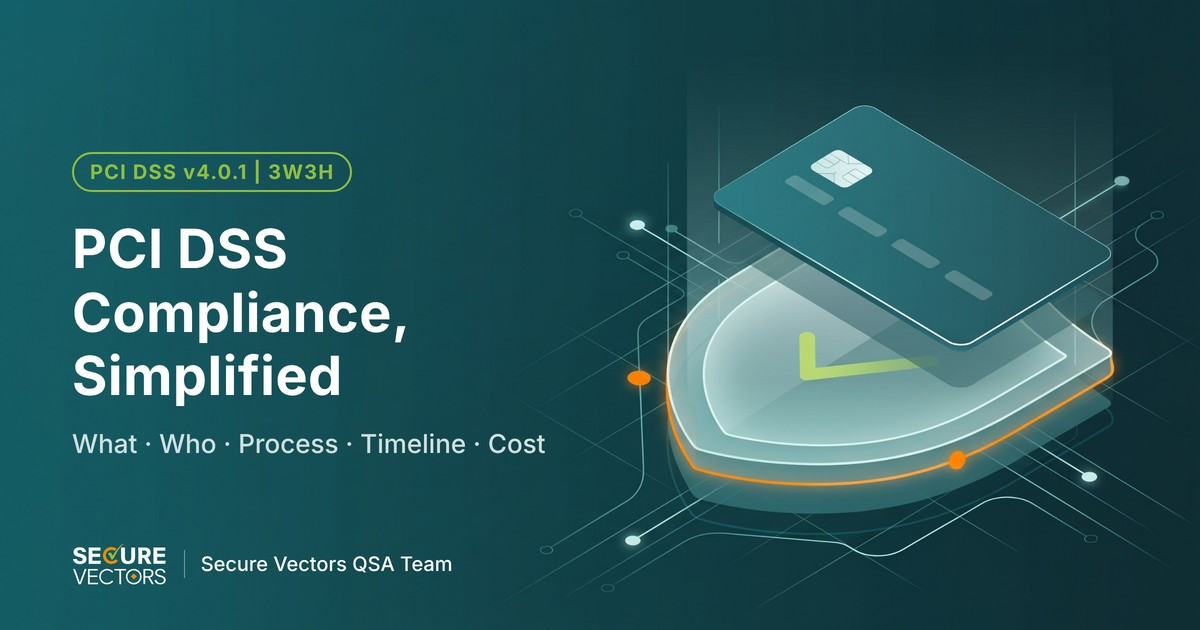
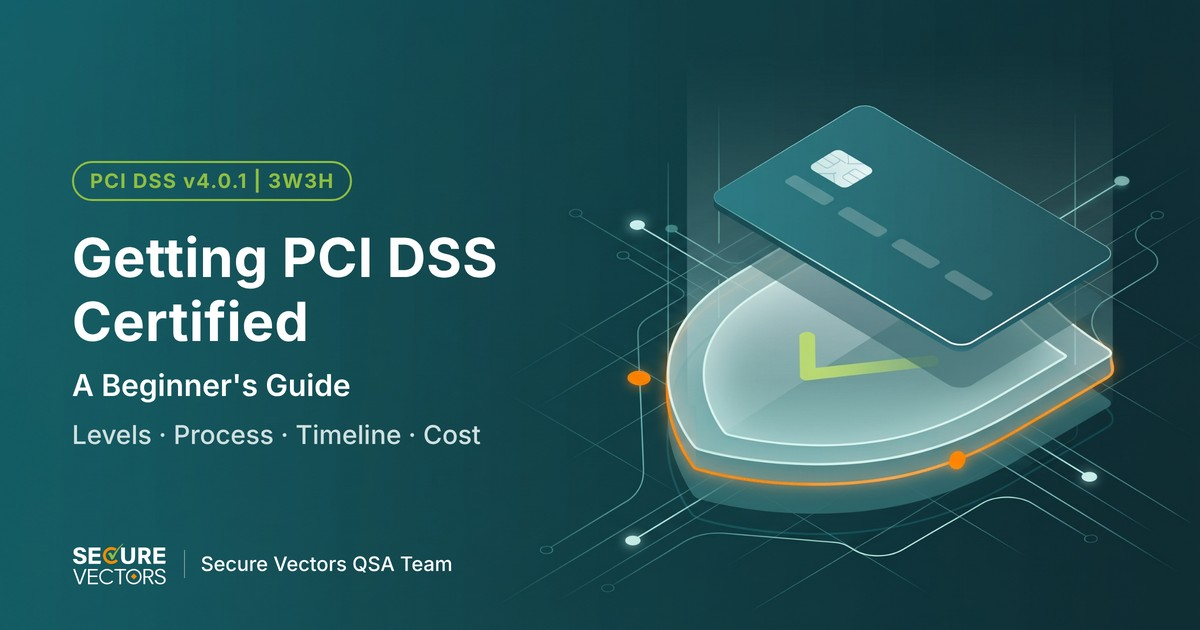
V2_20261117

Changed region(s): [[0.0617, 0.3619, 0.4625, 0.7238], [0.0617, 0.2413, 0.3083, 0.3317]]

diff --git a/pci-dss-compliance-for-dummies-en.html b/pci-dss-compliance-for-dummies-en.html
@@ -5,8 +5,8 @@
 <meta name="viewport" content="width=device-width, initial-scale=1">
 <!-- Preview only: remove the noindex line below before going live -->
 <meta name="robots" content="noindex, nofollow">
-<title>PCI DSS Compliance Guide for Beginners: Levels, Process, Timeline &amp; Cost (v4.0.1) | Secure Vectors</title>
-<meta name="description" content="Asked by your acquirer or a client to become PCI DSS compliant? This v4.0.1 guide explains levels and SAQ types, AOC vs. ROC, the QSA assessment process, a typical 3–5 month timeline, QSA fees of about US$15,000–25,000, and what you need to do every quarter and year after.">
+<title>Getting PCI DSS Certified: A Beginner's Guide | Secure Vectors</title>
+<meta name="description" content="Asked by your acquirer or a client to get PCI DSS certified? Based on PCI DSS v4.0.1: levels and SAQ types, AOC vs. ROC, the QSA assessment process, a typical 3–5 month timeline, QSA fees of about US$15,000–25,000, and what to do every quarter and year after.">
 <link rel="canonical" href="https://www.securevectors.com/pci-dss-compliance-for-dummies">
 <link rel="alternate" hreflang="zh-Hant" href="https://www.securevectors.com/zh-hant/pci-dss-compliance-for-dummies">
 <link rel="alternate" hreflang="zh-Hans" href="https://www.securevectors.com/zh-hans/pci-dss-compliance-for-dummies">
@@ -14,7 +14,7 @@
 <link rel="alternate" hreflang="en" href="https://www.securevectors.com/pci-dss-compliance-for-dummies">
 <link rel="alternate" hreflang="x-default" href="https://www.securevectors.com/pci-dss-compliance-for-dummies">
 <meta property="og:type" content="article">
-<meta property="og:title" content="PCI DSS Compliance, Simplified: What It Is, Who Needs It, Process, Timeline and Cost">
+<meta property="og:title" content="Getting PCI DSS Certified: A Beginner's Guide — Levels, Process, Timeline and Cost">
 <meta property="og:description" content="A plain-language guide to PCI DSS v4.0.1, built around six questions (3W3H), plus what to do after you receive your AOC.">
 <meta property="og:url" content="https://www.securevectors.com/pci-dss-compliance-for-dummies">
 <!-- Replace with the cover image URL after uploading to Webflow -->
@@ -26,8 +26,8 @@
 <link href="https://fonts.googleapis.com/css2?family=Inter:wght@400;500;700&family=Space+Grotesk:wght@500;700&display=swap" rel="stylesheet">
 <script type="application/ld+json">
 {"@context":"https://schema.org","@graph":[
-{"@type":"Article","headline":"PCI DSS Compliance, Simplified: What It Is, Who Needs It, Process, Timeline and Cost","description":"A plain-language guide to PCI DSS v4.0.1: what it is, who needs it, who assesses it, the certification process, timeline and cost, and what to do every quarter and year after you receive your AOC.","dateModified":"2026-11-17","image":"https://www.securevectors.com/REPLACE-pci-dss-dummies-cover-en-1200x630.jpg","inLanguage":"en","mainEntityOfPage":"https://www.securevectors.com/pci-dss-compliance-for-dummies","author":{"@type":"Organization","name":"Secure Vectors QSA Team","url":"https://www.securevectors.com/about-us"},"publisher":{"@type":"Organization","name":"Secure Vectors","url":"https://www.securevectors.com/"},"about":["PCI DSS","PCI DSS v4.0.1","Qualified Security Assessor","Attestation of Compliance","Self-Assessment Questionnaire"]},
-{"@type":"BreadcrumbList","itemListElement":[{"@type":"ListItem","position":1,"name":"Home","item":"https://www.securevectors.com/"},{"@type":"ListItem","position":2,"name":"PCI DSS","item":"https://www.securevectors.com/pci-dss"},{"@type":"ListItem","position":3,"name":"PCI DSS Compliance Guide","item":"https://www.securevectors.com/pci-dss-compliance-for-dummies"}]},
+{"@type":"Article","headline":"Getting PCI DSS Certified: A Beginner's Guide — Levels, Process, Timeline and Cost","description":"A plain-language guide to PCI DSS v4.0.1: what it is, who needs it, who assesses it, the certification process, timeline and cost, and what to do every quarter and year after you receive your AOC.","dateModified":"2026-11-17","image":"https://www.securevectors.com/REPLACE-pci-dss-dummies-cover-en-1200x630.jpg","inLanguage":"en","mainEntityOfPage":"https://www.securevectors.com/pci-dss-compliance-for-dummies","author":{"@type":"Organization","name":"Secure Vectors QSA Team","url":"https://www.securevectors.com/about-us"},"publisher":{"@type":"Organization","name":"Secure Vectors","url":"https://www.securevectors.com/"},"about":["PCI DSS","PCI DSS v4.0.1","Qualified Security Assessor","Attestation of Compliance","Self-Assessment Questionnaire"]},
+{"@type":"BreadcrumbList","itemListElement":[{"@type":"ListItem","position":1,"name":"Home","item":"https://www.securevectors.com/"},{"@type":"ListItem","position":2,"name":"PCI DSS","item":"https://www.securevectors.com/pci-dss"},{"@type":"ListItem","position":3,"name":"Getting PCI DSS Certified","item":"https://www.securevectors.com/pci-dss-compliance-for-dummies"}]},
 {"@type":"FAQPage","mainEntity":[
 {"@type":"Question","name":"If a payment provider hosts our payment page, do we still need PCI DSS?","acceptedAnswer":{"@type":"Answer","text":"Yes. Outsourcing can greatly reduce your scope, but merchants usually still need to complete the applicable SAQ and submit an AOC every year. Which SAQ applies depends on how the payment page is embedded."}},
 {"@type":"Question","name":"How long is a PCI DSS AOC valid?","acceptedAnswer":{"@type":"Answer","text":"PCI DSS is validated on a 12-month cycle. You need to reassess and submit a new AOC every year. Submission timing is set by your acquirer, the card brands, or your clients."}},
@@ -364,8 +364,8 @@ footer .bottom{border-top:1px solid rgba(255,255,255,.12);margin-top:24px;paddin
   <div class="wrap">
     <p class="crumb"><a href="https://www.securevectors.com/">Home</a> / <a href="https://www.securevectors.com/pci-dss">PCI DSS</a> / Beginner's guide</p>
     <p class="eyebrow">Knowledge · PCI DSS v4.0.1</p>
-    <h1>PCI DSS Compliance, Simplified</h1>
-    <p class="sub">A beginner's guide for anyone asked by an acquirer or manager to get PCI DSS certified — six questions answered (3W3H).</p>
+    <h1>Getting PCI DSS Certified: A Beginner's Guide</h1>
+    <p class="sub">Levels, Process, Timeline and Cost</p>
     <p class="meta">Updated November 2026 · By the Secure Vectors QSA Team</p>
   </div>
 </section>

diff --git a/index.html b/index.html
@@ -17,9 +17,11 @@ h1{font-size:clamp(26px,4vw,38px);margin:0 0 10px}
 p.sub{color:var(--muted);margin:0 0 32px}
 .grid{display:grid;grid-template-columns:1fr 1fr;gap:16px}
 @media(max-width:640px){.grid{grid-template-columns:1fr}}
-a.card{display:block;text-decoration:none;color:inherit;background:#fff;border:1.5px solid var(--line);border-left:5px solid var(--teal);border-radius:12px;padding:20px 22px;transition:border-color .15s,box-shadow .15s}
+a.card{display:block;overflow:hidden;padding:0 !important;text-decoration:none;color:inherit;background:#fff;border:1.5px solid var(--line);border-top:4px solid var(--teal);border-radius:12px;padding:20px 22px;transition:border-color .15s,box-shadow .15s}
 a.card:hover{border-color:var(--orange);box-shadow:0 6px 18px rgba(13,52,55,.08)}
 .lang{font-family:"Space Grotesk",sans-serif;font-size:13px;font-weight:700;color:var(--orange)}
+.card img{display:block;width:100%;aspect-ratio:1200/630;object-fit:cover;border-bottom:1px solid var(--line)}
+.card .bd{padding:16px 20px 18px}
 .card h2{font-size:20px;margin:4px 0 6px}
 .card p{margin:0;font-size:14.5px;color:var(--muted)}
 .note{margin-top:32px;font-size:13.5px;color:var(--muted);border-top:1px solid var(--line);padding-top:16px}
@@ -31,10 +33,10 @@ a.card:hover{border-color:var(--orange);box-shadow:0 6px 18px rgba(13,52,55,.08)
   <h1>PCI DSS 過證懶人包｜預覽版</h1>
   <p class="sub">請選擇語系。各頁面皆為上線前預覽版本（noindex）。</p>
   <div class="grid">
-    <a class="card" href="pci-dss-compliance-for-dummies.html"><span class="lang">繁體中文 · zh-Hant</span><h2>【PCI DSS 過證懶人包】</h2><p>台灣、香港讀者</p></a>
-    <a class="card" href="pci-dss-compliance-for-dummies-zh-hans.html"><span class="lang">简体中文 · zh-Hans</span><h2>【PCI DSS 认证一文读懂】</h2><p>中国内地读者</p></a>
-    <a class="card" href="pci-dss-compliance-for-dummies-en.html"><span class="lang">English · en</span><h2>PCI DSS Compliance, Simplified</h2><p>Singapore, US and EU readers</p></a>
-    <a class="card" href="pci-dss-compliance-for-dummies-ja.html"><span class="lang">日本語 · ja</span><h2>PCI DSS準拠 はじめてガイド</h2><p>日本の読者向け</p></a>
+    <a class="card" href="pci-dss-compliance-for-dummies.html"><img src="pci-dss-dummies-cover-zh-hant-1200x630.jpg" alt=""><div class="bd"><span class="lang">繁體中文 · zh-Hant</span><h2>【PCI DSS 過證懶人包】</h2><p>台灣、香港讀者</p></div></a>
+    <a class="card" href="pci-dss-compliance-for-dummies-zh-hans.html"><img src="pci-dss-dummies-cover-zh-hans-1200x630.jpg" alt=""><div class="bd"><span class="lang">简体中文 · zh-Hans</span><h2>【PCI DSS 认证一文读懂】</h2><p>中国内地读者</p></div></a>
+    <a class="card" href="pci-dss-compliance-for-dummies-en.html"><img src="pci-dss-dummies-cover-en-1200x630.jpg" alt=""><div class="bd"><span class="lang">English · en</span><h2>Getting PCI DSS Certified: A Beginner's Guide</h2><p>Singapore, US and EU readers</p></div></a>
+    <a class="card" href="pci-dss-compliance-for-dummies-ja.html"><img src="pci-dss-dummies-cover-ja-1200x630.jpg" alt=""><div class="bd"><span class="lang">日本語 · ja</span><h2>PCI DSS準拠 はじめてガイド</h2><p>日本の読者向け</p></div></a>
   </div>
   <p class="note">更新日期：2026-11-17 · 正式網址：securevectors.com/{zh-hant|zh-hans|ja}/pci-dss-compliance-for-dummies</p>
 </div>
